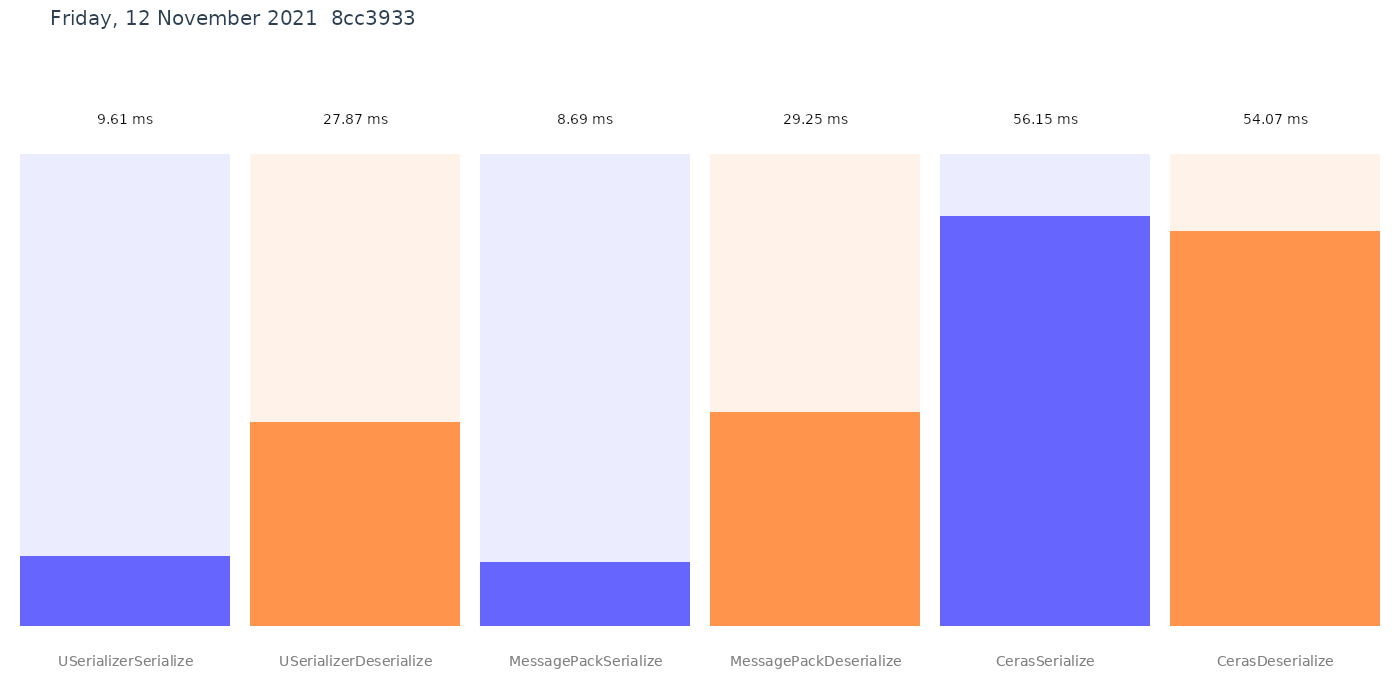
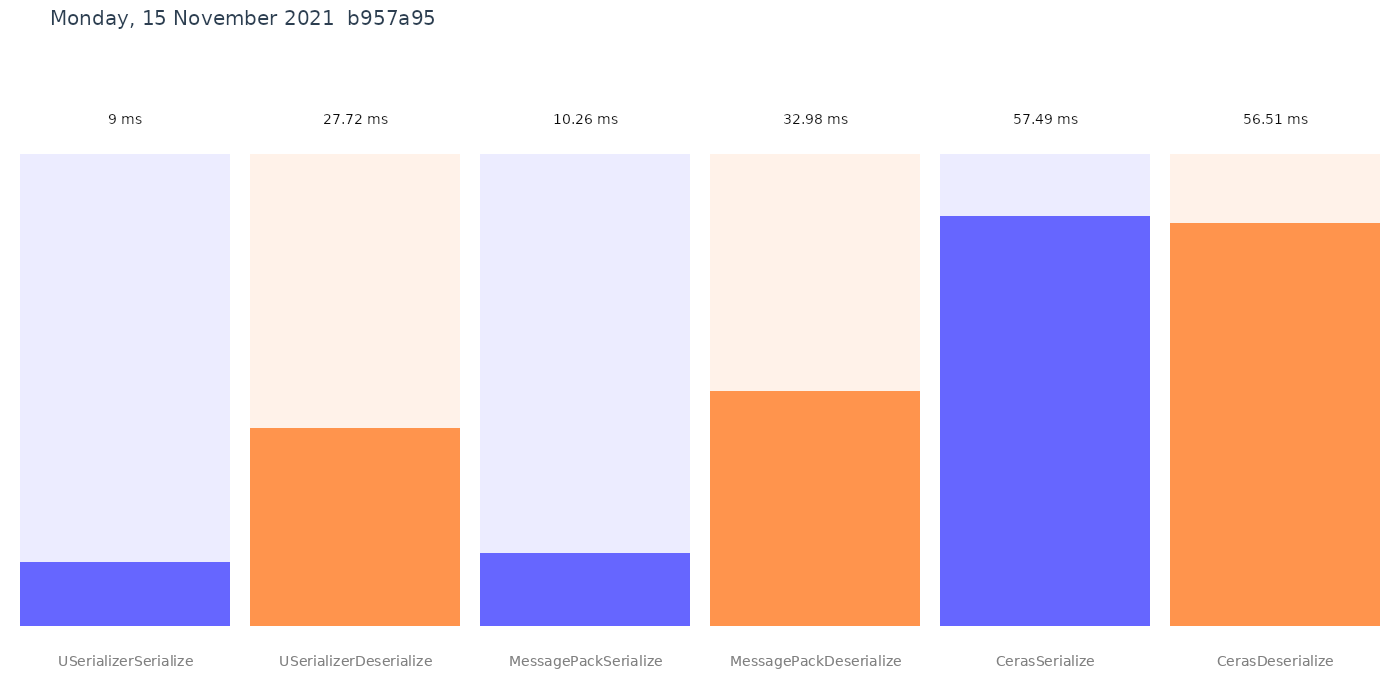
deploy: b957a9580a40fdb1058f4cf6278223530cf612b2

diff --git a/performance.md b/performance.md
@@ -1,7 +1,7 @@
 ``` ini
 
 BenchmarkDotNet=v0.12.1, OS=ubuntu 20.04
-Intel Xeon CPU E5-2673 v4 2.30GHz, 1 CPU, 2 logical and 2 physical cores
+Intel Xeon Platinum 8171M CPU 2.60GHz, 1 CPU, 2 logical and 2 physical cores
 .NET Core SDK=5.0.403
   [Host]   : .NET Core 5.0.12 (CoreCLR 5.0.1221.52207, CoreFX 5.0.1221.52207), X64 RyuJIT
   ShortRun : .NET Core 5.0.12 (CoreCLR 5.0.1221.52207, CoreFX 5.0.1221.52207), X64 RyuJIT
@@ -12,9 +12,9 @@ WarmupCount=3
 ```
 |                 Method |      Mean |     Error |    StdDev |
 |----------------------- |----------:|----------:|----------:|
-|   USerializerSerialize |  9.613 ms |  6.373 ms | 0.3493 ms |
-| USerializerDeserialize | 27.868 ms | 30.839 ms | 1.6904 ms |
-|   MessagePackSerialize |  8.695 ms |  1.553 ms | 0.0851 ms |
-| MessagePackDeserialize | 29.254 ms |  6.025 ms | 0.3303 ms |
-|         CerasSerialize | 56.154 ms | 58.149 ms | 3.1873 ms |
-|       CerasDeserialize | 54.067 ms | 23.695 ms | 1.2988 ms |
+|   USerializerSerialize |  9.000 ms | 0.0823 ms | 0.0045 ms |
+| USerializerDeserialize | 27.718 ms | 4.1975 ms | 0.2301 ms |
+|   MessagePackSerialize | 10.263 ms | 6.2658 ms | 0.3434 ms |
+| MessagePackDeserialize | 32.983 ms | 8.0020 ms | 0.4386 ms |
+|         CerasSerialize | 57.494 ms | 0.4289 ms | 0.0235 ms |
+|       CerasDeserialize | 56.507 ms | 0.3282 ms | 0.0180 ms |
